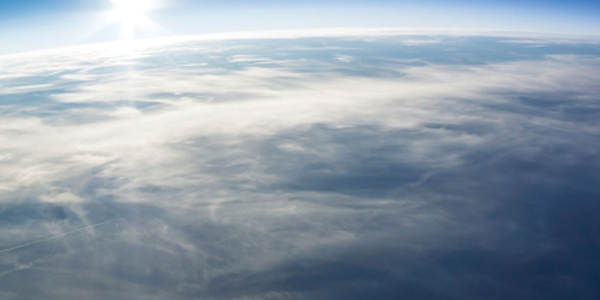
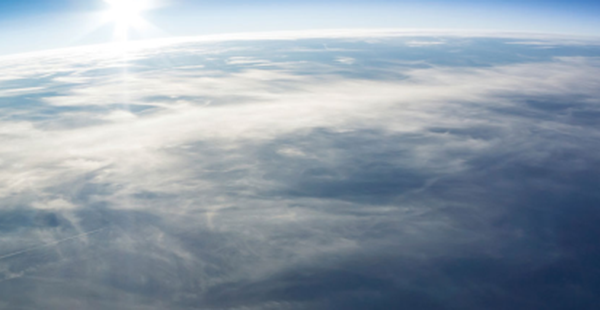
Bottom-align the month/title in ParentSquare header photos
The plain GitHub version already bottom-aligns the date/title against
the header photo via a large fixed bottom padding after the nav row
(155px), so the text sits near the bottom of the hero image instead of
clumped right under the nav links. The ParentSquare version lost that
spacing when it was reworked in an earlier commit (ec49303) and never
got it back, so date/title sat bunched at the top with empty photo
below.

Restored an equivalent push-down padding sized for each track's header
box (133px for Physics/IB, which have a single-line title; 87px for
ESS, whose two-line title already takes up more vertical room), and
grew the hero images slightly (600x310) to keep them tall enough to
still fully cover the now-taller header box without tiling.

Claude-Session: https://claude.ai/code/session_014BvtBuLC7kdeF69k2ytiSQ

diff --git a/emails/IB/september2026-parentsquare.html b/emails/IB/september2026-parentsquare.html
@@ -218,10 +218,10 @@
             <td style="padding: 0px 0px 8px 0px;">
              <table width="100%" border="0" cellspacing="0" cellpadding="0" role="presentation">
               <tr>
-               <td valign="top" height="236" style="padding: 24px 30px 40px 30px; border-radius: 8px; background-color: #4b4343;" bgcolor="#4b4343" background="https://raw.githubusercontent.com/jqyuan-git/physics/main/emails/assets/physics-hero-bg.png">
+               <td valign="top" height="246" style="padding: 24px 30px 40px 30px; border-radius: 8px; background-color: #4b4343;" bgcolor="#4b4343" background="https://raw.githubusercontent.com/jqyuan-git/physics/main/emails/assets/physics-hero-bg.png">
                 <table width="100%" border="0" cellpadding="0" cellspacing="0" role="presentation">
                  <tr>
-                  <td class="pc-w520-spacing-0-0-50-0 pc-w620-spacing-0-0-70-0" align="left" style="padding: 10px 10px 10px 10px; mso-padding-left-alt: 0; margin-left:10px;">
+                  <td class="pc-w520-spacing-0-0-50-0 pc-w620-spacing-0-0-70-0" align="left" style="padding: 10px 10px 133px 10px; mso-padding-left-alt: 0; margin-left:10px;">
                    <table class="pc-width-hug pc-w620-gridCollapsed-0" align="left" border="0" cellpadding="0" cellspacing="0" role="presentation">
                     <tr class="pc-grid-tr-first pc-grid-tr-last">
                      <td class="pc-grid-td-first pc-w620-itemsSpacings-10-0" valign="top" style="padding-top: 0px; padding-right: 10px; padding-bottom: 0px; padding-left: 0px;">

diff --git a/emails/september2026-parentsquare.html b/emails/september2026-parentsquare.html
@@ -218,10 +218,10 @@
             <td style="padding: 0px 0px 8px 0px;">
              <table width="100%" border="0" cellspacing="0" cellpadding="0" role="presentation">
               <tr>
-               <td valign="top" height="236" style="padding: 24px 30px 40px 30px; border-radius: 8px; background-color: #4b4343;" bgcolor="#4b4343" background="https://raw.githubusercontent.com/jqyuan-git/physics/main/emails/assets/physics-hero-bg.png">
+               <td valign="top" height="246" style="padding: 24px 30px 40px 30px; border-radius: 8px; background-color: #4b4343;" bgcolor="#4b4343" background="https://raw.githubusercontent.com/jqyuan-git/physics/main/emails/assets/physics-hero-bg.png">
                 <table width="100%" border="0" cellpadding="0" cellspacing="0" role="presentation">
                  <tr>
-                  <td class="pc-w520-spacing-0-0-50-0 pc-w620-spacing-0-0-70-0" align="left" style="padding: 10px 10px 10px 10px; mso-padding-left-alt: 0; margin-left:10px;">
+                  <td class="pc-w520-spacing-0-0-50-0 pc-w620-spacing-0-0-70-0" align="left" style="padding: 10px 10px 133px 10px; mso-padding-left-alt: 0; margin-left:10px;">
                    <table class="pc-width-hug pc-w620-gridCollapsed-0" align="left" border="0" cellpadding="0" cellspacing="0" role="presentation">
                     <tr class="pc-grid-tr-first pc-grid-tr-last">
                      <td class="pc-grid-td-first pc-w620-itemsSpacings-10-0" valign="top" style="padding-top: 0px; padding-right: 10px; padding-bottom: 0px; padding-left: 0px;">

diff --git a/emails/ESS/september2026-parentsquare.html b/emails/ESS/september2026-parentsquare.html
@@ -218,10 +218,10 @@
             <td style="padding: 0px 0px 8px 0px;">
              <table width="100%" border="0" cellspacing="0" cellpadding="0" role="presentation">
               <tr>
-               <td valign="top" height="236" style="padding: 24px 30px 40px 30px; border-radius: 8px; background-color: #0b1f3a;" bgcolor="#0b1f3a" background="https://raw.githubusercontent.com/jqyuan-git/physics/main/emails/assets/ess-hero-bg.png">
+               <td valign="top" height="246" style="padding: 24px 30px 40px 30px; border-radius: 8px; background-color: #0b1f3a;" bgcolor="#0b1f3a" background="https://raw.githubusercontent.com/jqyuan-git/physics/main/emails/assets/ess-hero-bg.png">
                 <table width="100%" border="0" cellpadding="0" cellspacing="0" role="presentation">
                  <tr>
-                  <td class="pc-w520-spacing-0-0-50-0 pc-w620-spacing-0-0-70-0" align="left" style="padding: 10px 10px 10px 10px; mso-padding-left-alt: 0; margin-left:10px;">
+                  <td class="pc-w520-spacing-0-0-50-0 pc-w620-spacing-0-0-70-0" align="left" style="padding: 10px 10px 87px 10px; mso-padding-left-alt: 0; margin-left:10px;">
                    <table class="pc-width-hug pc-w620-gridCollapsed-0" align="left" border="0" cellpadding="0" cellspacing="0" role="presentation">
                     <tr class="pc-grid-tr-first pc-grid-tr-last">
                      <td class="pc-grid-td-first pc-w620-itemsSpacings-10-0" valign="top" style="padding-top: 0px; padding-right: 10px; padding-bottom: 0px; padding-left: 0px;">
